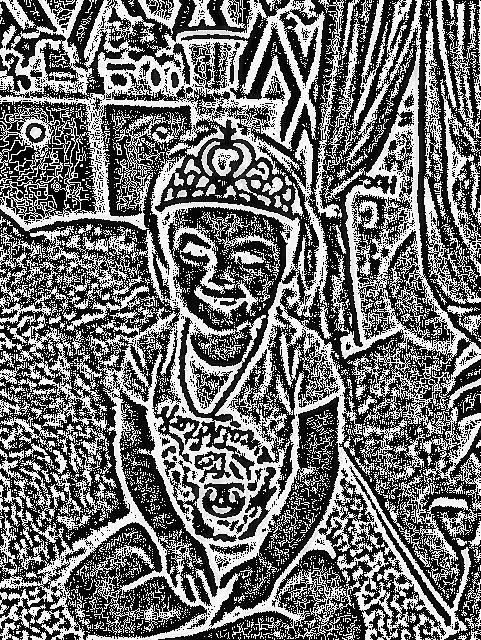
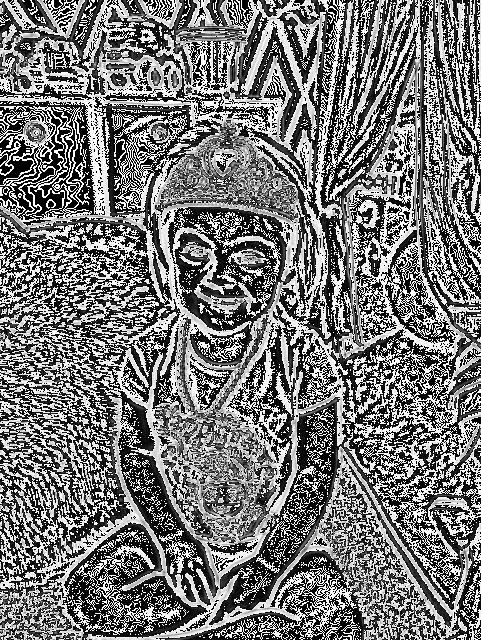
Still can't solve it...

diff --git a/HW2.py b/HW2.py
@@ -13,50 +13,62 @@ Homework 1
 """
 from PIL import Image, ImageFilter
 from scipy import ndimage
+from math import sqrt
 import numpy as np
+import cv2
 
-# Load images, Create the nparray of greyscale
-iris = Image.open("iris.bmp").convert('L')
-
+# Load autumn, Create the nparray of greyscale
 autumn = Image.open("PrincessAutumn.jpg").convert('L')
 autumn.save("GreyAutumn.jpg")
-autumn = autumn.filter(ImageFilter.GaussianBlur)
-autumn.save("GaussianAutumn.jpg")
 img = np.asarray(autumn, dtype='uint8')
 
-# sobel
+# average
+average_weights = np.array([
+    [ 1, 1, 1, 1, 1],
+    [ 1, 1, 1, 1, 1],
+    [ 1, 1, 1, 1, 1],
+    [ 1, 1, 1, 1, 1],
+    [ 1, 1, 1, 1, 1]])/25
+out = ndimage.convolve(img, average_weights)
+average_autumn = Image.fromarray(out, "L")
+average_autumn.save("averageAutumn.jpg")
+
+# sobel 
 sobelx_weights = np.array([
-        [-1, 0, 1],
-        [-1, 0, 1],
-        [-1, 0, 1]])
+    [ 2, 2, 2, 2, 2],
+    [ 1, 1, 1, 1, 1],
+    [ 0, 0, 0, 0, 0],
+    [-1,-1,-1,-1,-1],
+    [-2,-2,-2,-2,-2]])
 
 sobely_weights = np.array([
-        [-1,-1,-1],
-        [ 0, 0, 0],
-        [ 1, 1, 1]])
+    [ 2, 1, 0,-1,-2],
+    [ 2, 1, 0,-1,-2],
+    [ 2, 1, 0,-1,-2],
+    [ 2, 1, 0,-1,-2],
+    [ 2, 1, 0,-1,-2]])
 
-x_out = ndimage.convolve(img, sobelx_weights)
-y_out = ndimage.convolve(img, sobely_weights)
-out = (x_out + y_out)
+out = ndimage.convolve(img, sobelx_weights)
 sobel_autumn = Image.fromarray(out, 'L')
 sobel_autumn.save("SobelAutumn.jpg")
 
 # laplacian
-#laplacian_autumn = Image.new("L", autumn.size)
 laplacian_weights = np.array([
-        [-1,-1, -1],
-        [-1, 8, -1],
-        [-1,-1, -1]])
-out = ndimage.convolve(img, laplacian_weights)
+    [ 0, 0,-1, 0, 0],
+    [ 0,-1,-2,-1, 0],
+    [-1,-2,16,-2,-1],
+    [ 0,-1,-2,-1, 0],
+    [ 0, 0,-1, 0, 0]])
+out = ndimage.convolve(img, average_weights)
+out = ndimage.convolve(out, laplacian_weights)
 laplacian_autumn = Image.fromarray(out, 'L')
 laplacian_autumn.save("LaplacianAutumn.jpg")
 
-# median
-#median_autumn = Image.new("L", autumn.size)
-median_weights = np.array([
-        [1, 1, 1],
-        [1, 1, 1],
-        [1, 1, 1]])/9
-out = ndimage.convolve(img, median_weights)
-median_autumn = Image.fromarray(out, "L")
-median_autumn.save("MedianAutumn.jpg")
+# iris processing
+iris = Image.open("iris.bmp").convert('L')
+img = np.asarray(iris, dtype='uint8')
+out_x = ndimage.convolve(img, sobelx_weights)
+out_y = ndimage.convolve(img, sobely_weights)
+out = out_x + out_y
+sobel_iris = Image.fromarray(out, 'L')
+sobel_iris.save("SobelIris.jpg")
